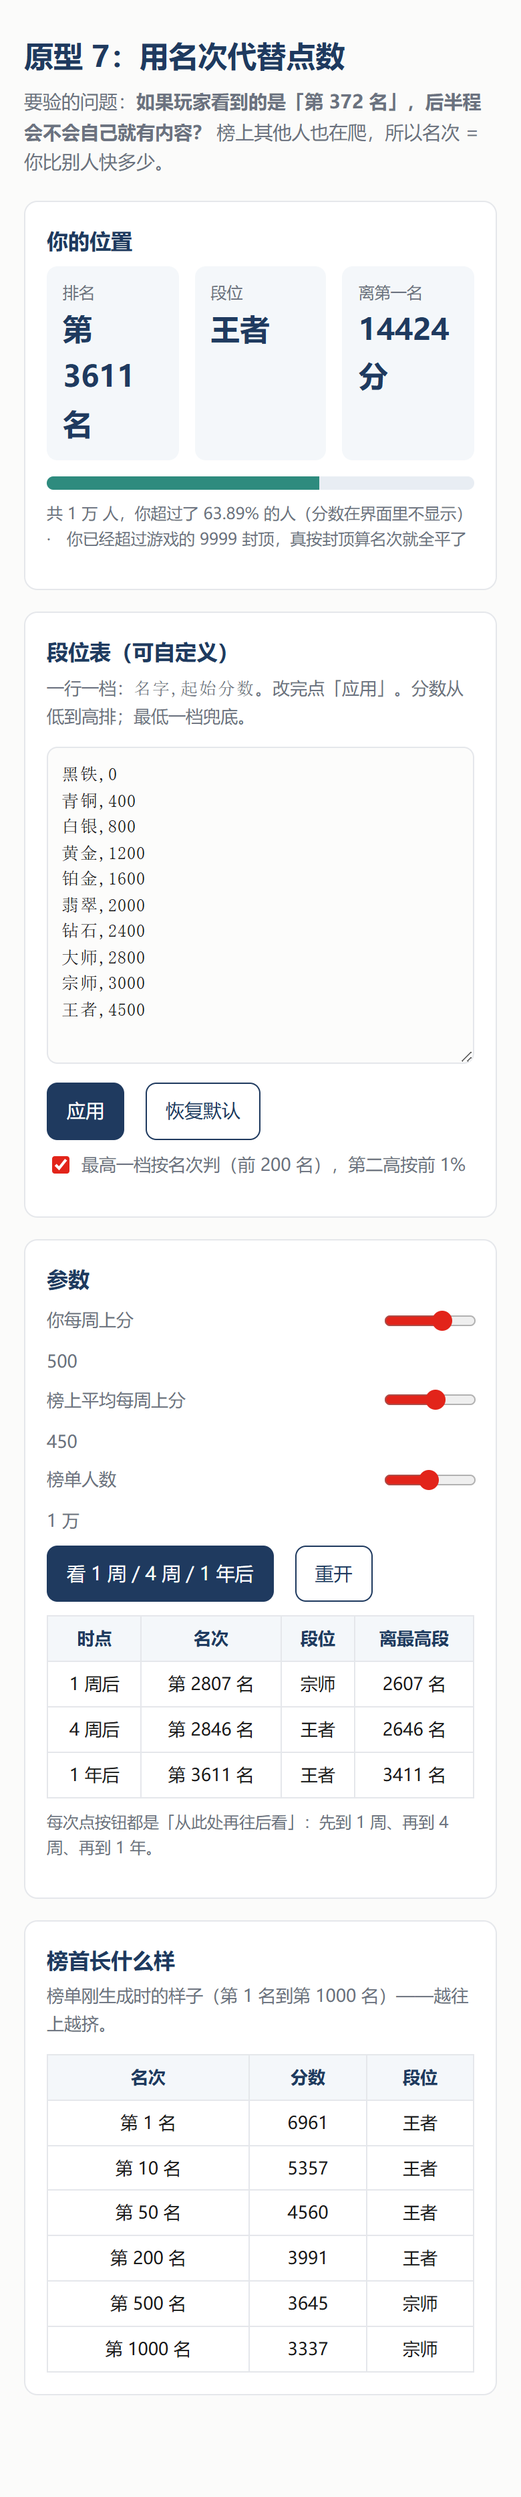
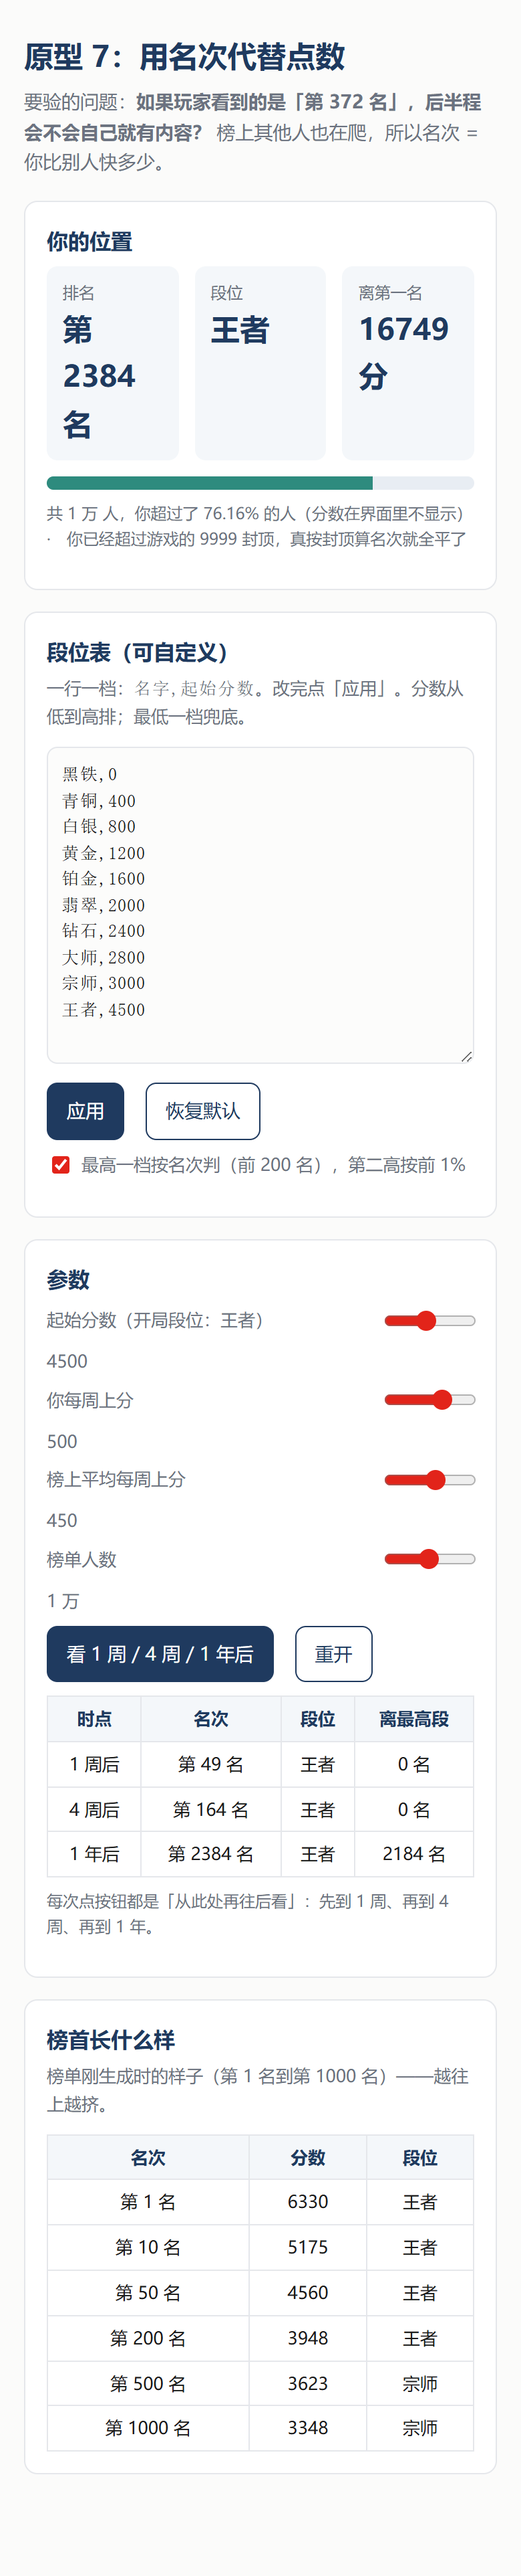
feat(prototype): 起始分数可自定义，标签实时显示开局段位

diff --git a/prototype/rank-by-placement.html b/prototype/rank-by-placement.html
@@ -67,6 +67,7 @@
 
   <section>
     <h2>参数</h2>
+    <div class="slider"><label id="startLbl">起始分数</label><input id="start" type="range" min="0" max="9999" step="50" value="2800"><span id="startV">2800</span></div>
     <div class="slider"><label>你每周上分</label><input id="gain" type="range" min="100" max="700" step="50" value="500"><span id="gainV">500</span></div>
     <div class="slider"><label>榜上平均每周上分</label><input id="rival" type="range" min="100" max="700" step="50" value="450"><span id="rivalV">450</span></div>
     <div class="slider"><label>榜单人数</label><input id="n" type="range" min="1000" max="20000" step="1000" value="10000"><span id="nV">1 万</span></div>
@@ -83,7 +84,7 @@
 </main>
 <script>
 const $ = id => document.getElementById(id);
-const START = 2800;
+let START = 2800;
 const DEFAULT_TIERS = "黑铁,0\n青铜,400\n白银,800\n黄金,1200\n铂金,1600\n翡翠,2000\n钻石,2400\n大师,2800\n宗师,3000\n王者,4500";
 let TIERS = [], board = [], refBoard = [], me = START;
 
@@ -156,13 +157,19 @@ function drawDist(){
   }
   $("dist").innerHTML = rows.map((row, i) => "<tr>" + row.map(c => `<t${i?"d":"h"}>${c}</t${i?"d":"h"}>`).join("") + "</tr>").join("");
 }
+function startLabel(){
+  const v = +$("start").value;
+  $("startV").textContent = v;
+  $("startLbl").textContent = "起始分数（开局段位：" + tierOf(v, rankOf(v)) + "）";
+}
 function reset(){
   const n = +$("n").value, rival = +$("rival").value;
+  START = +$("start").value;
   $("nV").textContent = fmt(n); $("rivalV").textContent = rival; $("gainV").textContent = $("gain").value;
   board = makeBoard(n, rival);
   refBoard = board.map(x => ({ lp: x.lp }));
   me = START;
-  drawDist(); render(); run();
+  startLabel(); drawDist(); render(); run();
 }
 function run(){
   const gain = +$("gain").value;
@@ -191,11 +198,12 @@ function applyTiers(){
   TIERS = parsed.tiers;
   $("tierNote").textContent = `已应用 ${parsed.tiers.length} 档：` + TIERS.map(t => `${t.name}(${t.at})`).join(" · ")
     + (parsed.bad.length ? `；忽略了 ${parsed.bad.length} 行格式不对的` : "");
-  drawDist(); render();
+  startLabel(); drawDist(); render();
 }
 $("applyTier").onclick = applyTiers;
 $("resetTier").onclick = () => { $("tierText").value = DEFAULT_TIERS; applyTiers(); };
-$("rankRule").onchange = () => { drawDist(); render(); };
+$("rankRule").onchange = () => { startLabel(); drawDist(); render(); };
+$("start").oninput = reset;
 $("n").oninput = reset;
 $("rival").oninput = reset;
 $("gain").oninput = () => { $("gainV").textContent = $("gain").value; };
